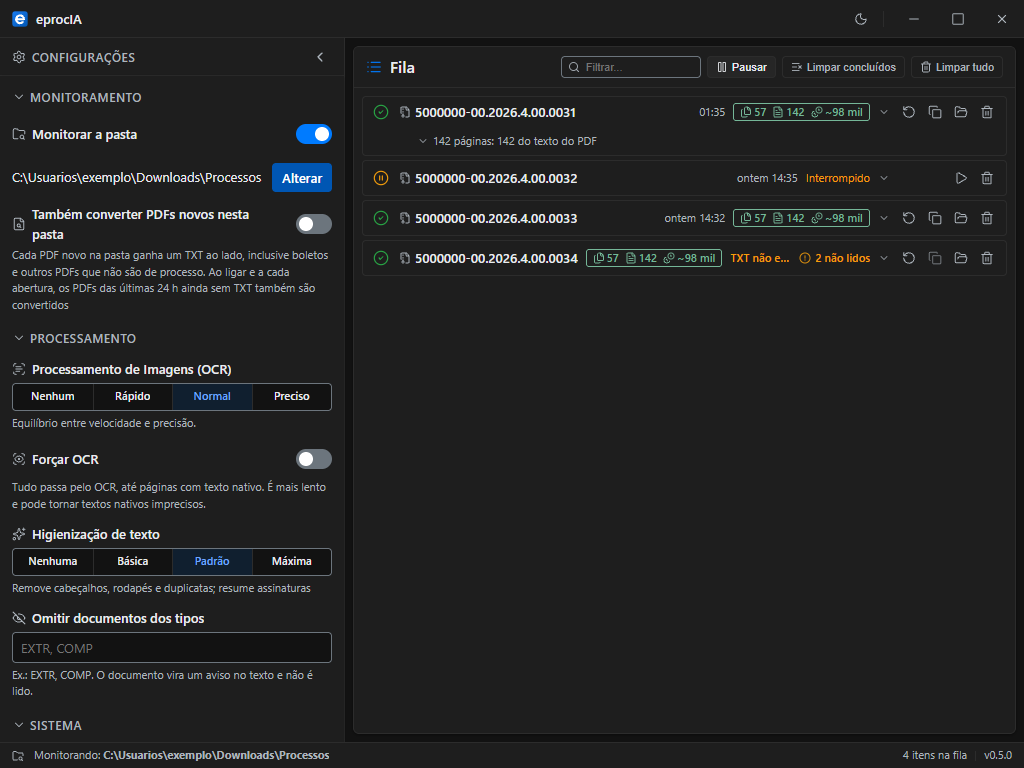
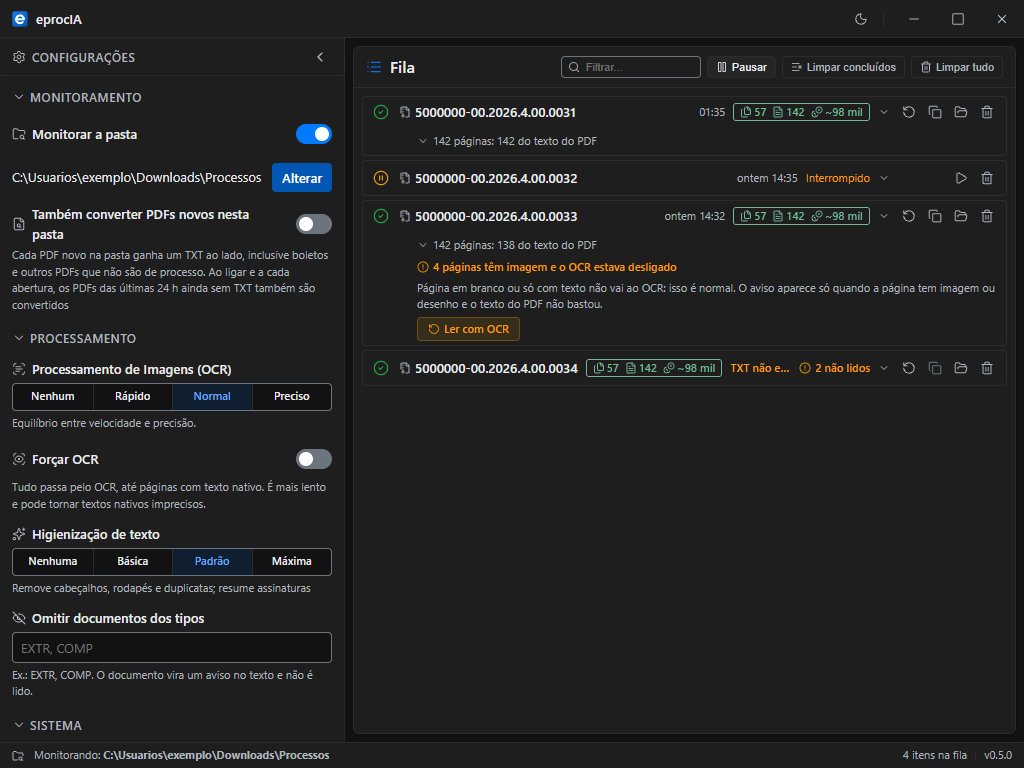
feat(historico): guardar o relatório do item sem os nomes de documento
Decisão d3 do dono (2026-11-26): historico.Item ganha "relatorio"
(omitempty). paraHistorico grava uma cópia do RelatorioZip com Atencao
vazia (a lista traz os nomes dos documentos); o relatório do item na
fila não muda. deHistorico devolve o relatório carregado, e o item
concluído restaurado volta com a linha-resumo, os avisos de OCR, o
"Ler com OCR" e o painel Detalhes. 500 itens com relatório: ~1,17 MB.

Estado visual historico com um restaurado com relatório; spec, plano,
CLAUDE.md, README e PRD (RF11, RNF07) atualizados; capturas refeitas.

Claude-Session: https://claude.ai/code/session_01YKHKdzvxGBDhYx5JAnxJoZ

diff --git a/internal/historico/historico_test.go b/internal/historico/historico_test.go
@@ -10,6 +10,8 @@ import (
 	"reflect"
 	"strings"
 	"testing"
+
+	"eprocia/internal/models"
 )
 
 // pasta é a pasta fictícia dos itens de teste (não precisa existir).
@@ -286,4 +288,100 @@ func TestItem_SaidaAnteriorOmitidaVazia(t *testing.T) {
 	if !bytes.Contains(b, []byte(`"saida_anterior":`)) {
 		t.Errorf("saida_anterior não gravada: %s", b)
 	}
+}
+
+// relatorioCompleto é um models.RelatorioZip com todos os campos de contagem
+// preenchidos e sem Atencao, como o paraHistorico o grava.
+func relatorioCompleto() *models.RelatorioZip {
+	return &models.RelatorioZip{
+		Documentos: models.DocsRelatorio{
+			Total: 42, Lidos: 38, NaoLidos: 2, Omitidos: 2, DuplicadosH7: 1, PDF: 40, HTML: 2,
+			TiposOmitidos: []string{"PROCURACAO"},
+			PorLeitura:    map[string]int{"sem_ocr": 1, "senha": 1},
+		},
+		Paginas: models.PaginasRelatorio{
+			Total: 310, LidaNativa: 250, LidaOCR: 50, Vazia: 4, SemOCR: 3, ComErro: 3,
+			OCRSemGanho: 2, OCRFalhouComReserva: 1, DeNaoLidos: 12, DeOmitidos: 6, Duplicadas: 5,
+			PorMotivo: map[string]int{"padrao": 40, "imagem_descoberta": 8, "isca": 2},
+		},
+		Tempo: models.TempoRelatorio{
+			TotalMs: 95000, AbrirMs: 120, PreContagemMs: 800, LeituraParedeMs: 80000,
+			LeituraSomaMs: 300000, OCRTrabalhoMs: 240000, OCRParedeMs: 70000,
+			FormatacaoMs: 900, GravacaoMs: 40,
+		},
+		OCR: models.OCRRelatorio{
+			Processos: 12, Blocos: 4, PaginasEmBloco: 40, Refacoes: 1, Prazos: 1,
+			BlocoMedioMs: 18000, BlocoMedianaMs: 17000, BlocoP95Ms: 30000, PaginaEstimadaMs: 4800,
+		},
+		Limpeza: models.LimpezaRelatorio{
+			Nivel: "standard", BytesAntes: 900000, BytesDepois: 700000, BytesDuplicatas: 20000,
+			TokensAntes: 225000, TokensDepois: 175000,
+		},
+		BytesTxt: 700000,
+		Tokens:   175000,
+	}
+}
+
+func TestGravador_RelatorioIdaEVolta(t *testing.T) {
+	arq := filepath.Join(t.TempDir(), "historico.json")
+	itens := tresItens()
+	itens[0].Relatorio = relatorioCompleto()
+	g := novoGravadorTeste(t, arq, Opcoes{})
+	if err := g.GravarAgora(itens); err != nil {
+		t.Fatal(err)
+	}
+	got, err := Carregar(arq)
+	if err != nil {
+		t.Fatal(err)
+	}
+	want := tresItens()
+	want[0].Relatorio = relatorioCompleto()
+	if !reflect.DeepEqual(got, want) {
+		t.Fatalf("ida e volta:\n got %+v\nwant %+v", got[0].Relatorio, want[0].Relatorio)
+	}
+	dados, _ := os.ReadFile(arq)
+	if n := strings.Count(string(dados), `"relatorio":`); n != 1 {
+		t.Errorf(`"relatorio": aparece %d vezes; want 1 (omitempty nos itens sem relatório)`, n)
+	}
+}
+
+func TestHistorico_TamanhoPorItem(t *testing.T) {
+	itens := make([]Item, Teto)
+	for i := range itens {
+		nome := fmt.Sprintf("%s-%03d.zip", cnj, i)
+		itens[i] = Item{
+			Name: nome, Path: em(nome), Status: "success", Message: "Concluído",
+			OutputPath: em(strings.TrimSuffix(nome, ".zip") + ".txt"),
+			DocsCount:  42, PagesCount: 310, EstimatedTokens: 175000, UnreadDocs: 2,
+			Timestamp: 1795000000000, FinishedAt: 1795000095000,
+			OcrMode: "normal", CleaningLevel: "standard", Kind: "zip",
+			Relatorio: relatorioCompleto(),
+		}
+	}
+	arq := filepath.Join(t.TempDir(), "historico.json")
+	g := novoGravadorTeste(t, arq, Opcoes{})
+	if err := g.GravarAgora(itens); err != nil {
+		t.Fatal(err)
+	}
+	info, err := os.Stat(arq)
+	if err != nil {
+		t.Fatal(err)
+	}
+	const limite = 1_200_000
+	if info.Size() > limite {
+		t.Fatalf("%d itens com relatório: %d bytes; máximo %d", Teto, info.Size(), limite)
+	}
+	if !bytes.Contains(lerArquivo(t, arq), []byte(`"relatorio":`)) {
+		t.Fatal("o relatório não foi gravado")
+	}
+	t.Logf("%d itens com relatório: %d bytes (%d por item)", Teto, info.Size(), info.Size()/Teto)
+}
+
+func lerArquivo(t *testing.T, arq string) []byte {
+	t.Helper()
+	dados, err := os.ReadFile(arq)
+	if err != nil {
+		t.Fatal(err)
+	}
+	return dados
 }

diff --git a/internal/etl/queue_historico_test.go b/internal/etl/queue_historico_test.go
@@ -5,6 +5,8 @@ import (
 	"encoding/json"
 	"os"
 	"path/filepath"
+	"reflect"
+	"strings"
 	"sync"
 	"sync/atomic"
 	"testing"
@@ -905,5 +907,77 @@ func TestHistorico_SaidaAnteriorIdaEVolta(t *testing.T) {
 	}
 	if _, err := os.Stat(filepath.Join(dir, "peticao_2.txt")); err == nil {
 		t.Error("criou peticao_2.txt")
+	}
+}
+
+// relatorioComAtencao é um relatório com contagens e dois documentos a
+// conferir, como o pipeline o deixa no item ao terminar.
+func relatorioComAtencao() *models.RelatorioZip {
+	return &models.RelatorioZip{
+		Documentos: models.DocsRelatorio{Total: 5, Lidos: 5, PDF: 5},
+		Paginas:    models.PaginasRelatorio{Total: 20, LidaNativa: 15, LidaOCR: 2, SemOCR: 2, ComErro: 1},
+		Tempo:      models.TempoRelatorio{TotalMs: 4000},
+		Limpeza:    models.LimpezaRelatorio{Nivel: "standard", BytesAntes: 1000, BytesDepois: 800},
+		BytesTxt:   800,
+		Tokens:     200,
+		Atencao: []models.DocAtencao{
+			{Nome: "Evento 3 - PET1.pdf", Evento: 3, SemOCR: []int{1, 2}, TotalSemOCR: 2},
+			{Nome: "Evento 3 - PET1.pdf", Evento: 3, ComErro: []int{4}, TotalComErro: 1},
+		},
+	}
+}
+
+func TestParaHistorico_SemAtencao(t *testing.T) {
+	rel := relatorioComAtencao()
+	item := &QueueItem{
+		ID: "i", Name: "p.zip", Path: `C:\Users\fulano\Downloads\p.zip`, Kind: "zip",
+		Status: "success", Message: "Concluído", OutputPath: `C:\Users\fulano\Downloads\p.txt`,
+		DocsCount: 5, PagesCount: 20, Relatorio: rel,
+	}
+	arquivo := filepath.Join(t.TempDir(), "historico.json")
+	g := historico.NovoGravador(arquivo, historico.Opcoes{})
+	if err := g.Fechar([]historico.Item{paraHistorico(item)}); err != nil {
+		t.Fatal(err)
+	}
+	dados := string(lerHistorico(t, arquivo))
+	if strings.Contains(dados, `"atencao"`) || strings.Contains(dados, "PET1") {
+		t.Errorf("o arquivo traz os documentos a conferir:\n%s", dados)
+	}
+	if !strings.Contains(dados, `"relatorio":`) || !strings.Contains(dados, `"sem_ocr": 2`) {
+		t.Errorf("o arquivo não traz o relatório com as contagens:\n%s", dados)
+	}
+	if item.Relatorio != rel || len(rel.Atencao) != 2 {
+		t.Errorf("o relatório do item na fila mudou: ponteiro igual %v, %d em atencao", item.Relatorio == rel, len(rel.Atencao))
+	}
+	if h := paraHistorico(item); h.Relatorio == rel {
+		t.Error("paraHistorico devolve o mesmo ponteiro do item")
+	}
+}
+
+func TestRestaurar_ComRelatorio(t *testing.T) {
+	item := &QueueItem{
+		ID: "i", Name: "p.zip", Path: `C:\Users\fulano\Downloads\p.zip`, Kind: "zip",
+		Status: "success", Message: "Concluído", OutputPath: `C:\Users\fulano\Downloads\p.txt`,
+		DocsCount: 5, PagesCount: 20, Relatorio: relatorioComAtencao(),
+	}
+	arquivo := filepath.Join(t.TempDir(), "historico.json")
+	g := historico.NovoGravador(arquivo, historico.Opcoes{})
+	if err := g.Fechar([]historico.Item{paraHistorico(item)}); err != nil {
+		t.Fatal(err)
+	}
+	carregados, err := historico.Carregar(arquivo)
+	if err != nil || len(carregados) != 1 {
+		t.Fatalf("Carregar: %+v, %v", carregados, err)
+	}
+	q, _ := novaFilaGravada(t, sucesso)
+	q.Restaurar(carregados)
+	it := q.GetItems()[0]
+	if it.Relatorio == nil {
+		t.Fatal("item restaurado sem Relatorio")
+	}
+	want := *relatorioComAtencao()
+	want.Atencao = nil
+	if !reflect.DeepEqual(*it.Relatorio, want) {
+		t.Errorf("Relatorio restaurado:\n got %+v\nwant %+v", *it.Relatorio, want)
 	}
 }

diff --git a/internal/etl/queue_historico.go b/internal/etl/queue_historico.go
@@ -50,12 +50,21 @@ func paraHistorico(item *QueueItem) historico.Item {
 	if kind == "pdf" {
 		h.Paths = slices.Clone(item.Paths)
 	}
+	if item.Relatorio != nil {
+		// Cópia por valor: o relatório do item é imutável e dividido entre as
+		// cópias do item; só a cópia gravada perde Atencao, que traz os nomes
+		// dos documentos. Os demais campos são contagens, tempos e enumerações.
+		rel := *item.Relatorio
+		rel.Atencao = nil
+		h.Relatorio = &rel
+	}
 	return h
 }
 
 // deHistorico monta o QueueItem de uma linha restaurada: ID novo, Restaurado,
-// pending e processing viram interrupted, e a saida_anterior gravada (ou, sem
-// ela, o TXT gravado) vira saidaAnterior.
+// pending e processing viram interrupted, a saida_anterior gravada (ou, sem
+// ela, o TXT gravado) vira saidaAnterior, e o relatório gravado (sem Atencao)
+// volta como está.
 func deHistorico(h historico.Item) *QueueItem {
 	kind := h.Kind
 	if kind == "" {
@@ -81,6 +90,7 @@ func deHistorico(h historico.Item) *QueueItem {
 		FinishedAt:      h.FinishedAt,
 		OcrMode:         h.OcrMode,
 		CleaningLevel:   h.CleaningLevel,
+		Relatorio:       h.Relatorio,
 		Restaurado:      true,
 	}
 	if kind == "pdf" {

diff --git a/internal/historico/historico.go b/internal/historico/historico.go
@@ -14,6 +14,7 @@ import (
 	"strings"
 	"time"
 
+	"eprocia/internal/models"
 	"eprocia/internal/saida"
 )
 
@@ -50,6 +51,10 @@ type Item struct {
 	// (QueueItem.saidaAnterior): sem ele, um PDF interrompido no meio de um
 	// reprocesso voltaria sem saída e gravaria <nome>_2.txt.
 	SaidaAnterior string `json:"saida_anterior,omitempty"`
+	// Relatorio é o relatório do último sucesso, só com contagens: Atencao
+	// (os nomes dos documentos a conferir) nunca é gravado (decisão d3 de
+	// 2026-11-26).
+	Relatorio *models.RelatorioZip `json:"relatorio,omitempty"`
 }
 
 // arquivoHistorico é o conteúdo de historico.json.

diff --git a/CLAUDE.md b/CLAUDE.md
@@ -114,7 +114,7 @@ There is no repo-level lint config beyond `go vet`. Frontend tests are `frontend
 
 **OCR** (`internal/ocr/tesseract.go`): Poppler (`pdftoppm.exe`) and Tesseract binaries + `tessdata/{fast,normal,best}` are embedded via `go:embed embed` and self-extracted once per process to `%TEMP%/eprocIA_bin` (skipped if already present with matching size). `RunOCR` renders one PDF page to grayscale PGM via `pdftoppm` (`-gray`; PNG encoding cost ~0.5 s per page, B-EF-01), then runs `tesseract.exe` with the Portuguese model and `--dpi 150` (PGM carries no resolution), falling back to the default model on failure. `RunOCRPaginas` does several pages of one PDF with one `pdftoppm` per contiguous run and a single `tesseract` over a list file (texts split on `\f`, which tesseract puts *between* pages, not after the last); the pipeline uses it through `PDFParser.comOCREmLote`, splitting each document's OCR pages into at most `numWorkers` blocks of at most 20 pages (`maxPaginasBlocoOCR`), and redoes a failed block page by page. `internal/ocr/poppler.go` adds `InfoPDF` (`pdfinfo.exe`, page count) and `TextoPDF` (`pdftotext.exe -enc UTF-8`, one text per page), with `ErrSenha` for a password-protected file. Every external process runs under a deadline (`internal/ocr/prazo.go`: `rodarComPrazo`, `prazoDe`, `ErrPrazo`): render 30 s + 10 s per page, OCR 60 s + 60 s per page, `pdfinfo` 20 s, `pdftotext` 30 s + 2 s per page; a process that passes it is killed and the page or document is marked `prazo`. This is Windows-only (`.exe`, `explorer.exe` calls in `app.go`).
 
-**Config** (`internal/config`): JSON file at `os.UserConfigDir()/eprocIA/config.json`. `Load`/`LoadFromFile` always backfill missing fields from `DefaultConfig()` rather than erroring — treat config loading as "merge with defaults", not strict parsing. `theme` is written only by `App.SetTheme` (SaveConfig keeps the stored one) and read in `main.go` for the native window background. `falhas.json` in the same folder (`watchdog.Falhas`) remembers failed ZIPs and PDFs by path + mtime so the startup scan does not re-queue them. `MonitorarPDF` (`monitorar_pdf`) starts `false`, also in the `LoadFromFile` overlay. `historico.json` (same folder) is the optional queue history (`GuardarHistorico`, `guardar_historico`, `false` by default and in the overlay; off means no read nor write of the file). Leaf package `internal/historico` (does not import `etl` nor `net`): `Carregar` (corrupt file renamed to `historico.json.corrompido-<stamp>`; `versao` above 1, or an unreadable file other than "not found", leaves the `Gravador` `Protegido`, so it does not overwrite until the session has an item) and the `historico.Gravador` (1 s debounce, temp file plus rename, retried once after 200 ms, cap of 500 items; `AoFalhar` runs under `q.emitMu` when the failure comes from `GravarAgora`/`Fechar`, and outside it when it comes from the debounce timer (`disparar`); either way it only records the failure and emits `historico:falha` once per session (the frontend also asks `App.HistoricoFalhou` right after its `EventsOn`, since the event may fire first), while the `Gravador` logs it: it never calls the queue nor reschedules). Only the last session with input is written (`sessaoComEntrada` in `etl.Queue`: until the first new input, the restored items left; after it, only this session's items, even an empty list). The `Gravador` is closed by `Shutdown` (items still pending/processing written as `interrupted`) and by the version swap (adapter `historicoAtualizacao` in `app_historico.go`, which logs a write error and returns nil so the swap goes on; reopened on rollback); a second `Fechar` writes nothing. `Queue.Restaurar` runs at startup before the watcher, so the startup scan reuses the `interrupted` line (path compared without case) instead of adding another. In the `--apos-atualizar` process the history is restored at startup, but the `Gravador` is created only after the old process exits (`NovoGravador` deletes `historico-*.tmp`); turning the switch on in between only saves the config (`historicoAdiado` holds it; `ligarHistoricoAdiado` reads the config then). In the old process, between the swap's `Fechar` and the rollback's `Reabrir`, `historicoFechadoTroca` does the same. Turning the switch off calls `FecharEApagar`. `OpenDirectory` opens the TXT's folder when the TXT is gone, and says "a pasta do arquivo não existe mais" (no path) when the folder is gone too.
+**Config** (`internal/config`): JSON file at `os.UserConfigDir()/eprocIA/config.json`. `Load`/`LoadFromFile` always backfill missing fields from `DefaultConfig()` rather than erroring — treat config loading as "merge with defaults", not strict parsing. `theme` is written only by `App.SetTheme` (SaveConfig keeps the stored one) and read in `main.go` for the native window background. `falhas.json` in the same folder (`watchdog.Falhas`) remembers failed ZIPs and PDFs by path + mtime so the startup scan does not re-queue them. `MonitorarPDF` (`monitorar_pdf`) starts `false`, also in the `LoadFromFile` overlay. `historico.json` (same folder) is the optional queue history (`GuardarHistorico`, `guardar_historico`, `false` by default and in the overlay; off means no read nor write of the file). Leaf package `internal/historico` (does not import `etl` nor `net`): `Carregar` (corrupt file renamed to `historico.json.corrompido-<stamp>`; `versao` above 1, or an unreadable file other than "not found", leaves the `Gravador` `Protegido`, so it does not overwrite until the session has an item) and the `historico.Gravador` (1 s debounce, temp file plus rename, retried once after 200 ms, cap of 500 items; `AoFalhar` runs under `q.emitMu` when the failure comes from `GravarAgora`/`Fechar`, and outside it when it comes from the debounce timer (`disparar`); either way it only records the failure and emits `historico:falha` once per session (the frontend also asks `App.HistoricoFalhou` right after its `EventsOn`, since the event may fire first), while the `Gravador` logs it: it never calls the queue nor reschedules). Each line keeps the item's `relatorio` with counts only: `paraHistorico` writes a copy without `Atencao` (document names; decision d3 of 2026-11-26), so a restored success still shows the summary line, the OCR warnings, "Ler com OCR" and the Detalhes panel. Only the last session with input is written (`sessaoComEntrada` in `etl.Queue`: until the first new input, the restored items left; after it, only this session's items, even an empty list). The `Gravador` is closed by `Shutdown` (items still pending/processing written as `interrupted`) and by the version swap (adapter `historicoAtualizacao` in `app_historico.go`, which logs a write error and returns nil so the swap goes on; reopened on rollback); a second `Fechar` writes nothing. `Queue.Restaurar` runs at startup before the watcher, so the startup scan reuses the `interrupted` line (path compared without case) instead of adding another. In the `--apos-atualizar` process the history is restored at startup, but the `Gravador` is created only after the old process exits (`NovoGravador` deletes `historico-*.tmp`); turning the switch on in between only saves the config (`historicoAdiado` holds it; `ligarHistoricoAdiado` reads the config then). In the old process, between the swap's `Fechar` and the rollback's `Reabrir`, `historicoFechadoTroca` does the same. Turning the switch off calls `FecharEApagar`. `OpenDirectory` opens the TXT's folder when the TXT is gone, and says "a pasta do arquivo não existe mais" (no path) when the folder is gone too.
 
 **Frontend** (`frontend/src`): Svelte 5 in legacy syntax (`export let`, `$:`, `on:`) + Vite, no component framework/state library. `App.svelte` owns top-level state (queue items, per-item activity, config, theme) and subscribes to Wails events; `Settings.svelte` and `ProcessList.svelte` (with `AtividadeItem.svelte` and `ReprocessarItem.svelte` inside a row) are the children, communicating up through callback props. Pure logic lives in `src/lib/*.js`. A drop goes through `separarEntradas` (`lib/aviso.js`, ZIP and PDF) and sends the accepted paths in one `AddDroppedFiles` call, so the PDFs of a drop are one item; the empty queue's button calls `SelectFiles` (ZIP and PDF filters). The row shows the item type icon (`FileArchive`/`File`, `TIPO_ENTRADA`) before the name. `frontend/src/wailsjs/` is **generated** from the Go bindings — never hand-edit it; after changing an `App` method signature run `wails generate module` (seconds, no build).
 

diff --git a/PRD.md b/PRD.md
@@ -39,7 +39,7 @@ Abaixo estão as funcionalidades obrigatórias que o sistema deve executar.
 | **RF08** | **Estrutura** | Tagueamento XML/Markdown no texto final. | Cada documento deve ser envolvido por tags indicando seu ID e nome original. Ex: `<doc id="Evento 1">...</doc>`. |
 | **RF09** | **Relatório** | Relatório do processamento de cada ZIP concluído. | O item da fila mostra quantas páginas vieram do texto do PDF, do OCR ou estavam em branco, e avisa só o que pede atenção: páginas com imagem ou desenho que precisavam de OCR e ficaram sem (OCR desligado), páginas com erro, páginas em que o OCR falhou e ficou o texto do PDF, documentos digitalizados não lidos por falta de OCR. Quando faltou OCR, oferece "Ler com OCR", que refaz só aquele ZIP com o OCR ligado, sem mudar a configuração. Os detalhes trazem tempos, a redução da higienização, os tipos omitidos e os documentos e páginas a conferir no PDF original. O `.txt` traz a linha de páginas sem OCR no cabeçalho (seção 6). |
 | **RF10** | **OCR** | Forçar OCR em todas as páginas de PDF. | Opção desligada por padrão, nas configurações (vale para todo ZIP) e no reprocessamento de um item (vale só para ele). Ligada, toda página de PDF vai ao OCR, inclusive as que têm texto nativo e as repetidas; sem efeito com o OCR desligado. Uma página que só foi ao OCR por essa opção nunca fica pior do que sem ela quando o OCR falha, sai em branco ou ilegível: fica o texto nativo, com o aviso de falha do OCR quando houve falha. |
-| **RF11** | **Histórico da fila** | Lista da última sessão ao reabrir o programa. | Opcional e desligado por padrão (interruptor "Guardar a lista da última sessão", em Configurações). Ligado, ao reabrir a lista mostra os itens da última sessão em que algo foi processado (uma sessão sem processamento não apaga a anterior), no máximo 500, com data e hora na linha e as ações de antes (copiar, abrir pasta, reprocessar) enquanto os arquivos existirem. O item que processava ou aguardava ao fechar aparece como "Interrompido", com "Processar de novo"; com o monitoramento ligado, a varredura da abertura o processa de novo sozinha na mesma linha quando ele é das últimas 24 h e não tem TXT mais novo. TXT apagado ou movido mostra "TXT não encontrado" e desativa o copiar. Tudo fica só neste computador (RNF07). |
+| **RF11** | **Histórico da fila** | Lista da última sessão ao reabrir o programa. | Opcional e desligado por padrão (interruptor "Guardar a lista da última sessão", em Configurações). Ligado, ao reabrir a lista mostra os itens da última sessão em que algo foi processado (uma sessão sem processamento não apaga a anterior), no máximo 500, com data e hora na linha, a linha-resumo do relatório (sem a lista de documentos a conferir) e as ações de antes (copiar, abrir pasta, reprocessar, "Ler com OCR") enquanto os arquivos existirem. O item que processava ou aguardava ao fechar aparece como "Interrompido", com "Processar de novo"; com o monitoramento ligado, a varredura da abertura o processa de novo sozinha na mesma linha quando ele é das últimas 24 h e não tem TXT mais novo. TXT apagado ou movido mostra "TXT não encontrado" e desativa o copiar. Tudo fica só neste computador (RNF07). |
 
 ## 4. Requisitos Não-Funcionais
 
@@ -51,7 +51,7 @@ Abaixo estão as funcionalidades obrigatórias que o sistema deve executar.
 | **RNF04** | **Dependência** | Eventuais binários devem ser empacotados no binário final |
 | **RNF05** | **Diagnóstico** | Log em arquivo e telemetria só com a variável de ambiente `EPROCIA_LOG` (`1` ou `detalhado`), lida na partida; sem ela, nada é gravado e a interface não mostra nada sobre log. Os dois ficam só no computador, sem envio pela rede. O log leva nomes de ZIP e de documento, com o nome do usuário do Windows trocado; a telemetria não leva nome nenhum. |
 | **RNF06** | **Atualização** | A única conexão de rede do programa é a consulta e o download de versões no GitHub (`jonyduque/eprocia`), e ela só acontece quando o usuário clica em "Procurar atualização" (e, depois, em "Atualizar"). Não há procura automática, periódica nem na abertura. A consulta não envia conteúdo, nome nem caminho de processo; o GitHub vê só o IP, a hora e o `User-Agent` `eprocIA/<versão>`. Sem telemetria, nem contagem de atualizações. O log local (RNF05, quando ligado) registra hora e resultado de cada consulta e de cada troca. |
-| **RNF07** | **Privacidade do histórico** | O histórico da fila (RF11) guarda nomes de arquivos, que no Eproc são números de processo, e caminhos de pasta, que trazem o nome do usuário do Windows; não guarda texto de documento. Só existe com o interruptor ligado (o padrão é desligado), só em `%APPDATA%\eprocIA\historico.json`, no perfil do usuário, e nunca sai da máquina. Guarda só a última sessão com processamento, no máximo 500 itens. Limpa-se pelo X da linha (apaga o item), por "Limpar tudo" (apaga a lista inteira), desligando o interruptor (apaga o arquivo) e por `install.ps1 -Uninstall -Purge`. Em máquina compartilhada com o mesmo login, com o interruptor ligado, outra pessoa vê os processos da última sessão; a frase do interruptor diz isso. |
+| **RNF07** | **Privacidade do histórico** | O histórico da fila (RF11) guarda nomes de arquivos, que no Eproc são números de processo, e caminhos de pasta, que trazem o nome do usuário do Windows, e o relatório de cada item concluído (RF09) só com contagens, sem nomes de documento (a lista de documentos a conferir não vai para o arquivo); não guarda texto de documento. Só existe com o interruptor ligado (o padrão é desligado), só em `%APPDATA%\eprocIA\historico.json`, no perfil do usuário, e nunca sai da máquina. Guarda só a última sessão com processamento, no máximo 500 itens. Limpa-se pelo X da linha (apaga o item), por "Limpar tudo" (apaga a lista inteira), desligando o interruptor (apaga o arquivo) e por `install.ps1 -Uninstall -Purge`. Em máquina compartilhada com o mesmo login, com o interruptor ligado, outra pessoa vê os processos da última sessão; a frase do interruptor diz isso. |
 
 ## 5. Arquitetura Técnica Proposta
 

diff --git a/docs/superpowers/plans/2026-11-26-historico.md b/docs/superpowers/plans/2026-11-26-historico.md
@@ -16,7 +16,7 @@
 
 - O histórico nasce desligado: `Config.GuardarHistorico bool` (`json:"guardar_historico"`), padrão `false` em `DefaultConfig` e no overlay de `LoadFromFile`. Desligado, nenhuma leitura nem escrita de `historico.json`, e `Restaurar` não é chamado.
 - Arquivo: `historico.json` na pasta de dados (`App.pastaDados`, `%APPDATA%\eprocIA`, a mesma de `config.json` e `falhas.json`). UTF-8 sem BOM. Formato `{"versao": 1, "itens": [...]}`, itens do mais novo para o mais antigo.
-- Campos gravados por item, com estas chaves exatas: `name`, `path`, `status`, `message`, `output_path`, `docs_count`, `pages_count`, `estimated_tokens`, `unread_docs`, `error`, `timestamp`, `finished_at`, `ocr_mode`, `cleaning_level`, e, no item de PDF, `kind` e `paths`; e `saida_anterior` (omitido quando vazio), acrescentado na revisão final. Não se grava `id`, `restaurado`, progresso, contadores parciais, atividade, ajuste de reprocessamento, `relatorio` nem `forcar_ocr`.
+- Campos gravados por item, com estas chaves exatas: `name`, `path`, `status`, `message`, `output_path`, `docs_count`, `pages_count`, `estimated_tokens`, `unread_docs`, `error`, `timestamp`, `finished_at`, `ocr_mode`, `cleaning_level`, e, no item de PDF, `kind` e `paths`; e `saida_anterior` (omitido quando vazio), acrescentado na revisão final. Não se grava `id`, `restaurado`, progresso, contadores parciais, atividade, ajuste de reprocessamento nem `forcar_ocr`. Grava-se `relatorio` sem `atencao` (omitido quando o item não tem relatório): decisão d3 do dono (2026-11-26), Task 10; a cópia gravada perde só a lista `atencao`, que traz os nomes dos documentos.
 - `kind` é sempre gravado, inclusive `"zip"` (sem `omitempty`). A carga só deriva `kind` da extensão do `path` quando o campo vem vazio (arquivo escrito à mão ou de versão anterior do formato).
 - Teto de 500 itens (os mais antigos saem). Debounce de 1 s. Nova tentativa de rename uma vez após 200 ms.
 - Arquivo corrompido vira `historico.json.corrompido-AAAAMMDD-HHMMSS` (hora local) e a lista abre vazia; `versao` maior que 1 é ignorada e o arquivo não é sobrescrito até a sessão ter um item.
@@ -45,7 +45,7 @@
 - **`Fechar(nil)` vira `FecharEApagar()`.** Com a lista gravada podendo ser vazia, `nil` e `[]Item{}` ficariam com sentidos opostos (apagar e gravar vazio). O plano usa um método explícito para o desligar.
 - **Falha de escrita na troca de versão.** O `atualizador` aborta o reinício se `Gravador.Fechar` devolver erro. Pela spec do histórico, a falha de escrita "registra no log ... e segue". O plano faz o gravador ficar fechado mesmo com a escrita falhando, e o adaptador registra no log e devolve `nil`: a troca segue e o processo novo carrega a última escrita que deu certo (pergunta q1 do relatório).
 - **Pasta do histórico.** A spec diz "via `config.GetConfigPath`". O app já tem `pastaDados` (o mesmo `%APPDATA%\eprocIA`, trocado por `t.TempDir()` nos testes): o plano usa `filepath.Join(a.pastaDados, "historico.json")`. Com `pastaDados` vazia, o histórico fica desligado e o log avisa.
-- **Campos novos desde a spec.** `QueueItem.Relatorio` e `ForcarOCR` não estão no formato da seção 3.2. O plano segue o formato da spec: um item restaurado não mostra a linha-resumo do relatório nem "Ler com OCR" (pergunta q2 do relatório).
+- **Campos novos desde a spec.** `QueueItem.Relatorio` e `ForcarOCR` não estão no formato da seção 3.2. O plano segue o formato da spec: um item restaurado não mostra a linha-resumo do relatório nem "Ler com OCR" (pergunta q2 do relatório). Resolvido pela decisão d3 (2026-11-26): a Task 10 grava o relatório sem `atencao`, e o item restaurado volta com a linha-resumo e o "Ler com OCR".
 - **Protegido (versão maior).** "Não o sobrescreve até o usuário mexer na fila" precisa de um sinal: `Carregar` devolve `ErrVersaoNova` e o gravador nasce `Protegido`, ignorando listas vazias até a primeira não vazia.
 - **Ordem do startup.** A spec pede `Restaurar` antes de `a.watcher.Start` (`app.go:90` da v0.4.2). Hoje o watcher sobe em `iniciarFila` por `ligarMonitor` (`app_atualizacao.go:137-139`); o histórico entra logo antes.
 - **RF09 já existe** (relatório). O requisito "Histórico da fila" do `PRD.md` usa o próximo número livre depois do plano do PDF avulso.
@@ -386,7 +386,7 @@
 
 ### Task 10: Relatório no histórico, sem atencao (condicional)
 
-**Condicional: só se o dono escolher gravar o relatório (pergunta q2, decisão d4).** Se ele escolher a opção (a), esta tarefa não é executada e o plano termina na Task 9.
+**Executada: o dono escolheu gravar o relatório só com contagens, sem nomes de documento (decisão d3 de 2026-11-26).**
 
 **Files:**
 - Modify: `internal/historico/historico.go` (`Item`), `internal/etl/queue_historico.go` (`paraHistorico`, `deHistorico`)

diff --git a/docs/superpowers/specs/2026-11-18-historico-design.md b/docs/superpowers/specs/2026-11-18-historico-design.md
@@ -121,9 +121,11 @@ Um item de vários PDFs (spec do PDF avulso, p3) leva também `"kind": "pdf"` e 
 
 _Nota da revisão final (2026-11-26):_ grava-se também `"saida_anterior"` (omitido quando vazio), o `saidaAnterior` do item. Sem ele, um PDF reprocessado que ainda aguardava ou processava ao fechar voltava interrompido sem saída, e "Processar de novo" gravava `<nome>_2.txt`. Na carga ele passa pela mesma regra do `output_path` (`saida.SaidaDoItem`); inválido, só o campo é descartado, não o item. Ao restaurar, `saidaAnterior` vem dele e, sem ele, do `output_path`.
 
+_Nota da decisão d3 (2026-11-26):_ grava-se também `"relatorio"` (omitido quando o item não tem), o `models.RelatorioZip` do último sucesso, **só com contagens**: documentos, páginas por categoria e por motivo de OCR, tempos, OCR, limpeza, `bytes_txt`, `tokens` e os tipos omitidos (os códigos de tipo da config, como `EXTR`). A lista `atencao`, que traz os nomes dos documentos a conferir, nunca vai para o arquivo: `paraHistorico` grava uma cópia do relatório com `atencao` vazia, e o relatório do item na fila não muda. Ao restaurar, o item concluído volta com a linha-resumo, os avisos de OCR, o "Ler com OCR" e o painel Detalhes (sem a lista de documentos a conferir). Um arquivo gravado antes disso não tem `relatorio`, e o item restaurado fica sem a linha-resumo, como antes.
+
 ### 3.3 Retenção
 
-Só a última sessão (h2), pela regra da lista gravada (seção 2.1 e e6). Não há prazo em dias. Fica um teto de 500 itens, para uma sessão muito longa (o programa pode ficar dias aberto na bandeja) não gerar um arquivo sem limite; acima dele, saem os mais antigos. Com 500 itens o arquivo fica em torno de 300 KB, lido uma vez na abertura.
+Só a última sessão (h2), pela regra da lista gravada (seção 2.1 e e6). Não há prazo em dias. Fica um teto de 500 itens, para uma sessão muito longa (o programa pode ficar dias aberto na bandeja) não gerar um arquivo sem limite; acima dele, saem os mais antigos. Com 500 itens o arquivo fica em torno de 300 KB, lido uma vez na abertura; com o relatório de cada item (d3), em torno de 1,2 MB (medido em `TestHistorico_TamanhoPorItem`: cerca de 2,3 KB por item, com o JSON indentado).
 
 ## 4. Casos de borda e falhas
 
@@ -143,7 +145,7 @@ Só a última sessão (h2), pela regra da lista gravada (seção 2.1 e e6). Não
 
 ## 5. Privacidade
 
-O histórico guarda nomes de arquivos, que no Eproc são números de processo (ex.: `5000000-00.2026.4.00.0001`), e caminhos de pasta, que trazem o nome do usuário do Windows. Não guarda texto de documento.
+O histórico guarda nomes de arquivos, que no Eproc são números de processo (ex.: `5000000-00.2026.4.00.0001`), e caminhos de pasta, que trazem o nome do usuário do Windows. Não guarda texto de documento. Desde a decisão d3 (2026-11-26) guarda também o relatório de cada item concluído só com contagens, sem nomes de documento (a lista `atencao` fica fora).
 
 - **Se:** só com o interruptor ligado; o padrão é desligado (h3).
 - **Onde:** só em `%APPDATA%\eprocIA\historico.json`, no perfil do usuário. Nunca sai da máquina.
@@ -219,6 +221,10 @@ De 2026-11-19:
 De 2026-11-20:
 
 - **e6.** Histórico só da última sessão e o item interrompido: uma sessão vazia (nada processado) não apaga a anterior; o item interrompido sai na sessão seguinte, se não for processado de novo. Aplicado nas seções 1, 2.1, 3.3, 4 e 8 (regra da lista gravada, testes de `queue_historico_test.go`). Vale também para a troca de versão do autoupdate: abrir e fechar sem processar não apaga a lista.
+
+De 2026-11-26:
+
+- **d3.** Relatório no histórico: "Gravar o relatório só com contagens, sem nomes de documento". O item concluído restaurado volta com a linha-resumo, os avisos, o "Ler com OCR" e o painel Detalhes; a lista de documentos a conferir (`atencao`) não é gravada. Aplicado nas seções 3.2, 3.3 e 5 (Task 10 do plano `2026-11-26-historico.md`).
 
 ## 11. Resposta à revisão
 

diff --git a/README.md b/README.md
@@ -301,7 +301,7 @@ go run ./scripts/anonimizar-log eprocia.log eprocia.1.log
 
 Nada sai da sua máquina. O eprocIA só usa a rede quando você clica em "Procurar atualização" (veja acima); fora isso, não faz nenhuma chamada: o OCR, as fontes e a interface vêm embutidos no executável. O texto só vai para uma IA quando **você** cola. O log e a telemetria, quando ligados por `EPROCIA_LOG`, ficam só no computador.
 
-Com **Guardar a lista da última sessão** ligado (vem desligado), o eprocIA grava em `%APPDATA%\eprocIA\historico.json` os nomes dos arquivos da fila (no Eproc, números de processo) e as pastas deles, que trazem o nome do seu usuário do Windows; nenhum texto de documento. Fica só a última sessão com processamento, até 500 itens, e o arquivo nunca sai da máquina. Em computador compartilhado com o mesmo login, outra pessoa vê esses processos ao abrir o programa. Para limpar: o **X** da linha apaga o item, **Limpar tudo** apaga a lista inteira, desligar a opção apaga o arquivo, e `install.ps1 -Uninstall -Purge` apaga todos os dados do eprocIA.
+Com **Guardar a lista da última sessão** ligado (vem desligado), o eprocIA grava em `%APPDATA%\eprocIA\historico.json` os nomes dos arquivos da fila (no Eproc, números de processo) e as pastas deles, que trazem o nome do seu usuário do Windows, e o relatório de cada item concluído só com contagens (páginas, OCR, limpeza, tempos), sem nomes de documento; nenhum texto de documento. Fica só a última sessão com processamento, até 500 itens, e o arquivo nunca sai da máquina. Em computador compartilhado com o mesmo login, outra pessoa vê esses processos ao abrir o programa. Para limpar: o **X** da linha apaga o item, **Limpar tudo** apaga a lista inteira, desligar a opção apaga o arquivo, e `install.ps1 -Uninstall -Purge` apaga todos os dados do eprocIA.
 
 ## 🛠 Desenvolvimento
 
